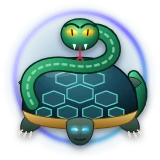
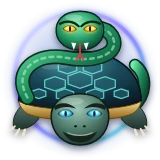
feat: 주작 더 웅장하게, 현무 얼굴 잘 보이게 다시 그림
- 주작: 하늘로 치켜든 V자 날개(깃털 3겹), 불꽃 후광과 태양빛, 큰 불꽃 볏, 다섯 갈래 꼬리, 금장식
- 현무: 거북 머리를 크게 앞으로 내밀고 빛나는 눈, 뱀 머리도 크게 → 작은 카드에서도 얼굴이 보임
- 그림 버전 3으로 올려 예전 그림 대신 새 그림을 받게 함

Claude-Session: https://claude.ai/code/session_01DW5rj9v1Rkyd7FJkLQ2dZj

diff --git a/index.html b/index.html
@@ -9485,7 +9485,7 @@ ${text}
         //  글꼴 이모지는 기기마다 작고 납작하게 보여서 그림으로 통일. 못 불러오면 글자 이모지로 대체
         const emojiCode = (e) => [...String(e)].map(c => c.codePointAt(0)).filter(c => c !== 0xfe0f).map(c => c.toString(16)).join('-');
         let EMOJI_3D = null;
-        const EMOJI_3D_VER = 2; // 그림을 바꾸면 올려서 브라우저에 남은 예전 그림 대신 새 그림을 받게 함 (2: 사신수 직접 그림)
+        const EMOJI_3D_VER = 3; // 그림을 바꾸면 올려서 브라우저에 남은 예전 그림 대신 새 그림을 받게 함 (3: 주작·현무 다시 그림)
         function emojiArt(e, cls = '') {
             if (!e) return '';
             if (!EMOJI_3D) EMOJI_3D = new Set(GACHA_ITEMS.map(it => emojiCode(it.emoji)));
